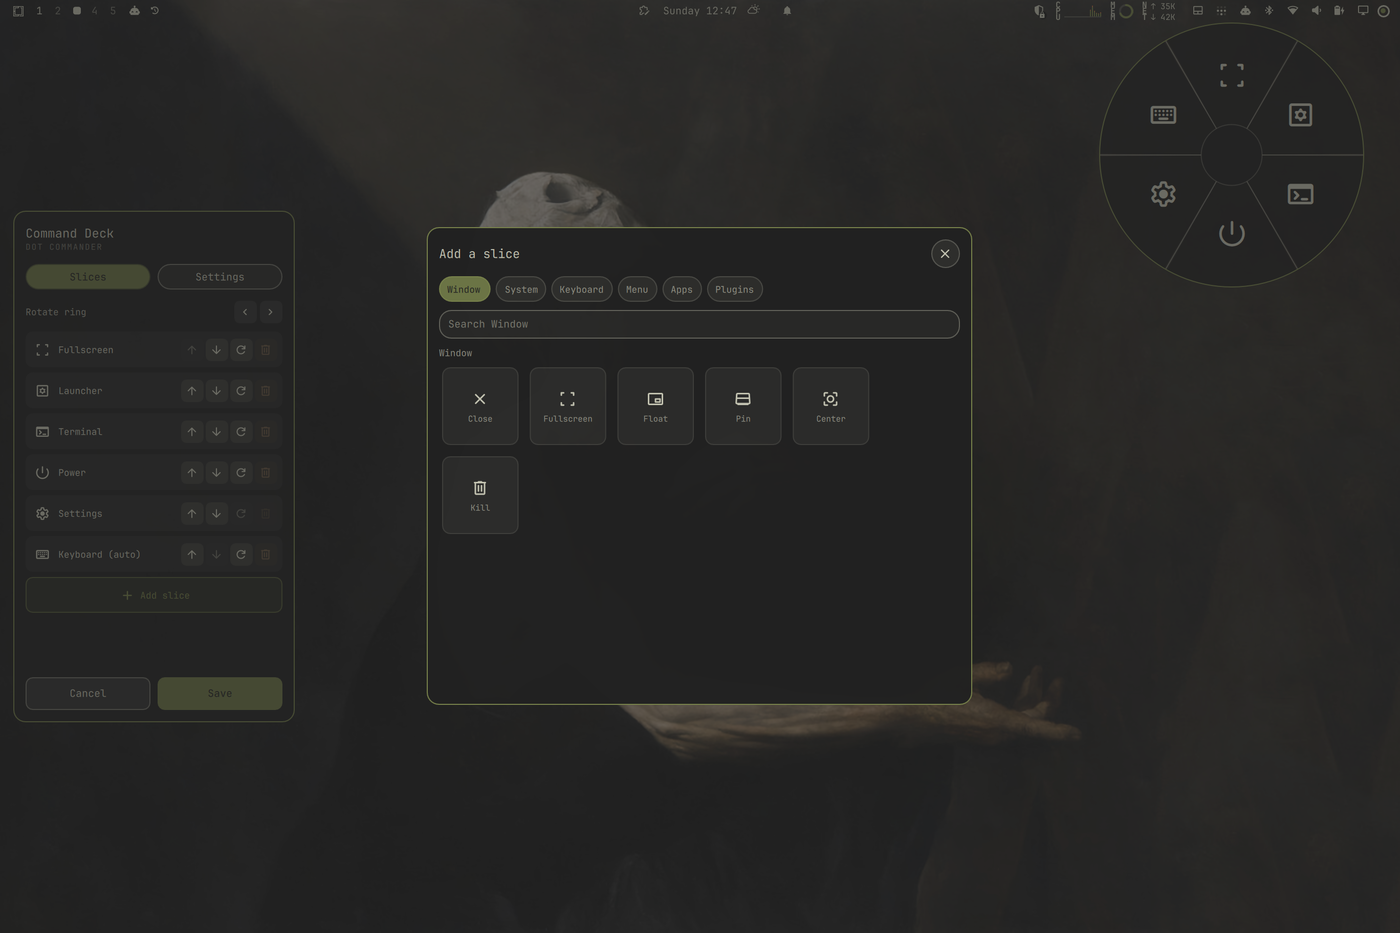
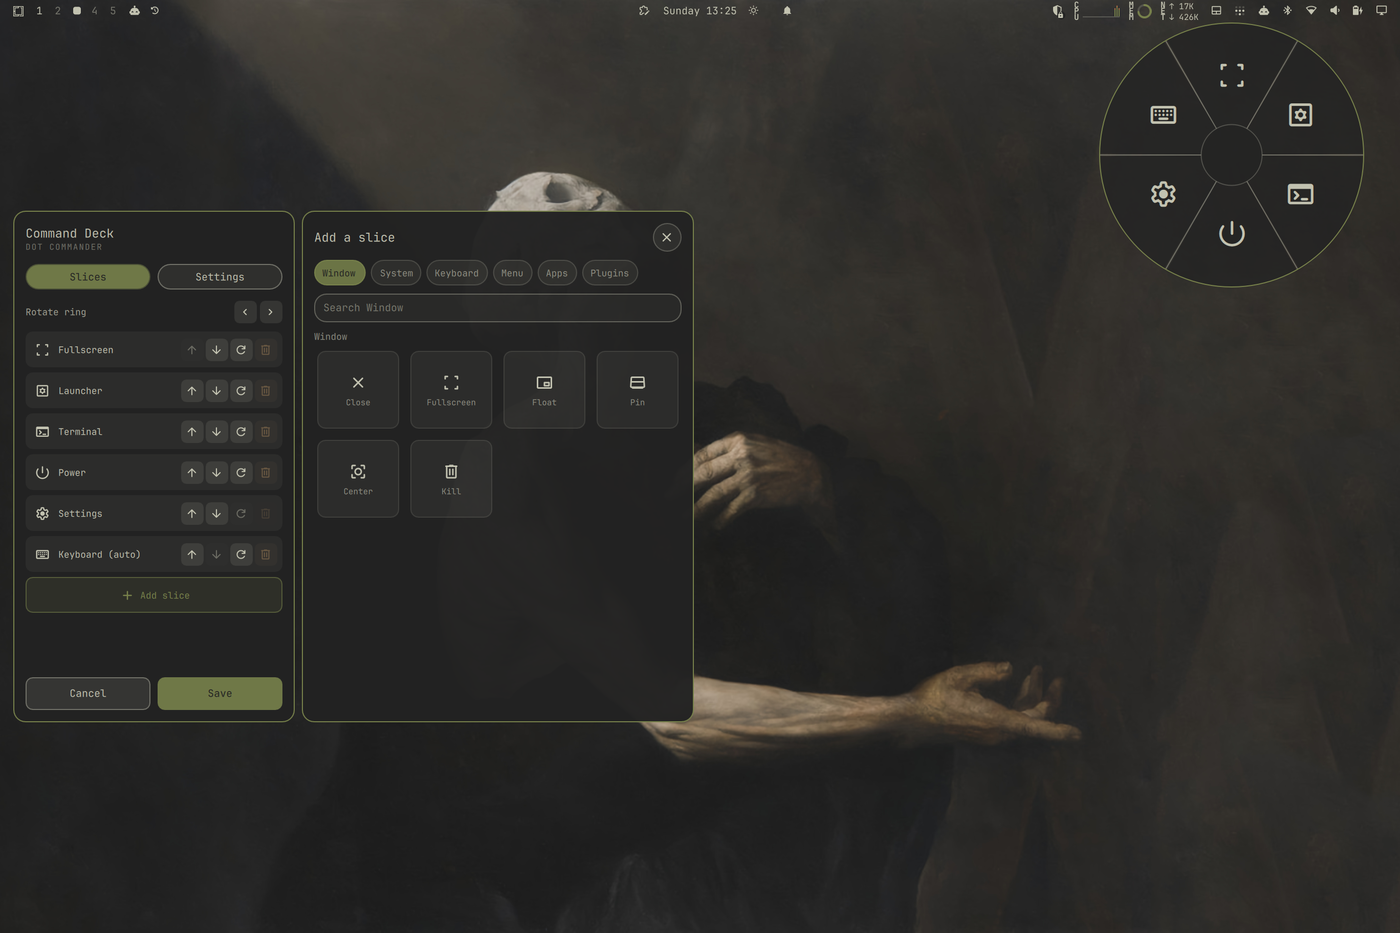
Stage settings until Save; dock the slice picker to the Command Deck
Settings now preview live but are written only on Save (Cancel restores the
snapshot), matching the slice draft. The tile picker is docked beside the deck
instead of a centred modal with a scrim, so adding or changing a slice stays on
the same surface; its category rail wraps as a Flow.

diff --git a/Dot.qml b/Dot.qml
@@ -138,6 +138,9 @@ Item {
   property string pickCategory: "Window"
   property string pickQuery: ""
   property bool editDirty: false
+  // Settings are staged like the slice draft: the panel previews them live, but
+  // nothing is written until Save (Cancel restores the snapshot).
+  property bool settingsDirty: false
   property bool confirmCancel: false
   // Command Deck panel state. `configBackup` snapshots the settings on enter so
   // Cancel can revert them (settings apply live for the preview); `deckTab`
@@ -567,6 +570,7 @@ Item {
   function enterEdit() {
     root.draftSlices = root.activeSlices.slice()
     root.editDirty = false
+    root.settingsDirty = false
     root.confirmCancel = false
     root.pickIndex = -1
     // Snapshot settings so Cancel can revert the live edits the panel makes.
@@ -584,7 +588,7 @@ Item {
   }
 
   function commitEdit() {
-    if (root.editDirty) {
+    if (root.editDirty || root.settingsDirty) {
       var stored = []
       for (var i = 0; i < root.draftSlices.length; i++) stored.push(root.sliceToStored(root.draftSlices[i]))
       var next = {}
@@ -596,6 +600,7 @@ Item {
     root.mode = "use"
     root.pickIndex = -1
     root.editDirty = false
+    root.settingsDirty = false
     root.confirmCancel = false
     root.configBackup = null
     root.syncStableIds()
@@ -629,6 +634,7 @@ Item {
     root.pickIndex = -1
     root.mode = "use"
     root.editDirty = false
+    root.settingsDirty = false
     root.syncStableIds()
     root.dismiss()
   }
@@ -801,15 +807,11 @@ Item {
     for (var k in root.config) next[k] = root.config[k]
     next[String(key)] = value
     root.config = next
-    root.persistSoon()
+    root.settingsDirty = true
   }
 
   function toggleConfig(key) {
     root.setConfig(key, root.config[String(key)] !== true)
-  }
-
-  function persistSoon() {
-    if (!persistDebounce.running) persistDebounce.restart()
   }
 
   // Slice label/glyph rendering shared by the panel list and the pie: an app
@@ -2869,33 +2871,22 @@ Item {
 
     // ---------------------------------------------------------------- picker
     //
-    // A centred card rather than qs.Ui's PopupCard: that component is
-    // bar-anchored (it requires anchorItem and bar and positions itself
-    // relative to the bar), which is the wrong shape for a modal over a
-    // full-screen overlay.
-    Rectangle {
-      id: pickScrim
-      visible: root.mode === "pick"
-      anchors.fill: parent
-      color: Util.alpha(Color.background, 0.55)
-      z: 18
-
-      MouseArea {
-        anchors.fill: parent
-        acceptedButtons: Qt.LeftButton
-        onClicked: { root.mode = "edit"; root.pickIndex = -1 }
-      }
-    }
-
+    // Docked to the Command Deck's inner side while adding or changing a slice,
+    // so the whole config flow stays on one surface instead of a centred modal
+    // with a full-screen scrim. Styled as the same card.
     Rectangle {
       id: picker
       visible: root.mode === "pick"
       z: 20
-      anchors.centerIn: parent
-      width: Math.min(Style.space(640), Math.max(Style.space(320), panel.width - Style.space(64)))
-      height: Math.min(Style.space(560), Math.max(Style.space(280), panel.height - Style.space(64)))
+      width: Math.min(Style.space(460),
+        Math.max(Style.space(300), panel.width - commandDeck.width - Style.space(48)))
+      height: commandDeck.height
+      y: commandDeck.y
+      x: root.deckRight
+        ? (commandDeck.x - width - Style.space(8))
+        : (commandDeck.x + commandDeck.width + Style.space(8))
       radius: Style.space(14)
-      color: Util.alpha(Color.background, 0.98)
+      color: Util.alpha(Color.background, 0.97)
       border.width: Math.max(1, Style.space(1))
       border.color: root.ringBorderColor
 
@@ -2976,12 +2967,12 @@ Item {
           }
         }
 
-        Row {
+        Flow {
           id: pickRail
           anchors.top: pickHeader.bottom
           anchors.topMargin: Style.space(10)
           anchors.left: parent.left
-          height: Style.space(30)
+          anchors.right: parent.right
           spacing: Style.space(6)
 
           Repeater {
@@ -3226,14 +3217,6 @@ Item {
     id: confirmTimer
     interval: 3000
     onTriggered: root.confirmCancel = false
-  }
-
-  // Debounce for settings autosave, so dragging a slider does not rewrite
-  // dot.json on every frame.
-  Timer {
-    id: persistDebounce
-    interval: 250
-    onTriggered: root.persist()
   }
 
   // First-run salute. applyState() calls maybeGreet() once the state file

diff --git a/README.md b/README.md
@@ -94,32 +94,34 @@ WYSIWYG preview, and the deck docks on whichever side the dot is not.
 **Slices** — build the ring:
 
 - The list shows every slice. **▲ / ▼** reorders it (or drag it around the pie
-  itself), **⟳** replaces it from the tile sheet, **🗑** removes it.
-- **Add slice** opens the tile sheet. Pick a category (Window, System, Keyboard,
-  Menu, Apps, Plugins) and a tile; Menu and Apps come from your live Omarchy
-  install, so they stay in sync.
+  itself), **⟳** replaces it, **🗑** removes it.
+- **Add slice** (or **⟳**) opens the tile sheet docked beside the deck — no
+  modal. Pick a category (Window, System, Keyboard, Menu, Apps, Plugins) and a
+  tile; Menu and Apps come from your live Omarchy install, so they stay in sync.
 - The Settings slice cannot be replaced or removed — it is the only way into the
   editor from the pie — and the ring keeps at least three slices.
 - Tiles that need a binary, backend or plugin you do not have draw dimmed.
 
 **Settings** — the live knobs: Physics, Spring open, Open wobble and Flick
 inertia; Show labels and Comfort inset; Dot size, Pie radius, Icon size and Idle
-opacity; plus Recenter and Reset all. Settings apply live and autosave.
+opacity; plus Recenter and Reset all. Changes preview live but are only written
+when you press Save.
 
-**Done** (the hub, or ✓) saves the slices; **Cancel** (✕) discards them and
-reverts any settings changed since the deck opened.
+**Save** writes both the slices and the settings; **Cancel** reverts everything
+changed since the deck opened. Escape acts as Cancel, asking first when there
+are unsaved changes.
 
 ![The Command Deck, Slices page](preview-editor.png)
 
 ![The Settings page](preview-settings.png)
 
-![Adding a slice from the tile sheet](preview-picker.png)
+![Adding a slice from the tile sheet, docked beside the deck](preview-picker.png)
 
 ## Configure
 
-State lives in `~/.local/state/omarchy/dot.json`. The Command Deck writes it —
-settings apply live and save automatically, slices save on Done — and the shell
-reloads the file on save, so you can also edit it by hand.
+State lives in `~/.local/state/omarchy/dot.json`. The Command Deck writes it on
+Save (Cancel leaves the file untouched), and the shell reloads the file on save,
+so you can also edit it by hand.
 
 | Key | Default | Meaning |
 |---|---|---|
